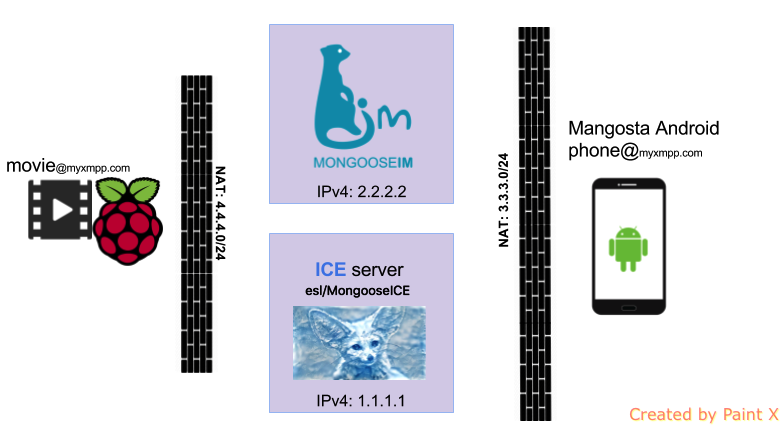
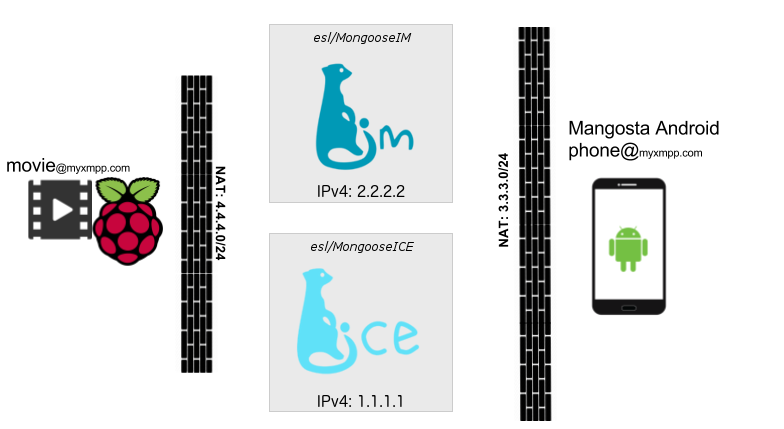
[skip ci] New architecture image
Spelling fix

Changed region(s): [[0.3367, 0.0303, 0.5816, 0.4848], [0.3367, 0.5455, 0.5816, 0.9697], [0.7959, 0.9394, 1.0, 1.0]]

diff --git a/doc/user-guide/ICE_tutorial.md b/doc/user-guide/ICE_tutorial.md
@@ -192,7 +192,7 @@ With this configuration, our RaspberryPi is ready to stream!
 #### Playing the video
 
 Now we finally can get out phone and start streaming the video!
-In order to do that, we have to click the "*New video stream*" button as shown on the screenshoots below, enter the JID of the RaspberryPi and confirm with the "*Stream!*" button.
+In order to do that, we have to click the "*New video stream*" button as shown on the screenshots below, enter the JID of the RaspberryPi and confirm with the "*Stream!*" button.
 
 
 <img alt="Mangosta start streaming" src="mangosta_start_stream_1.png" width="30%">
